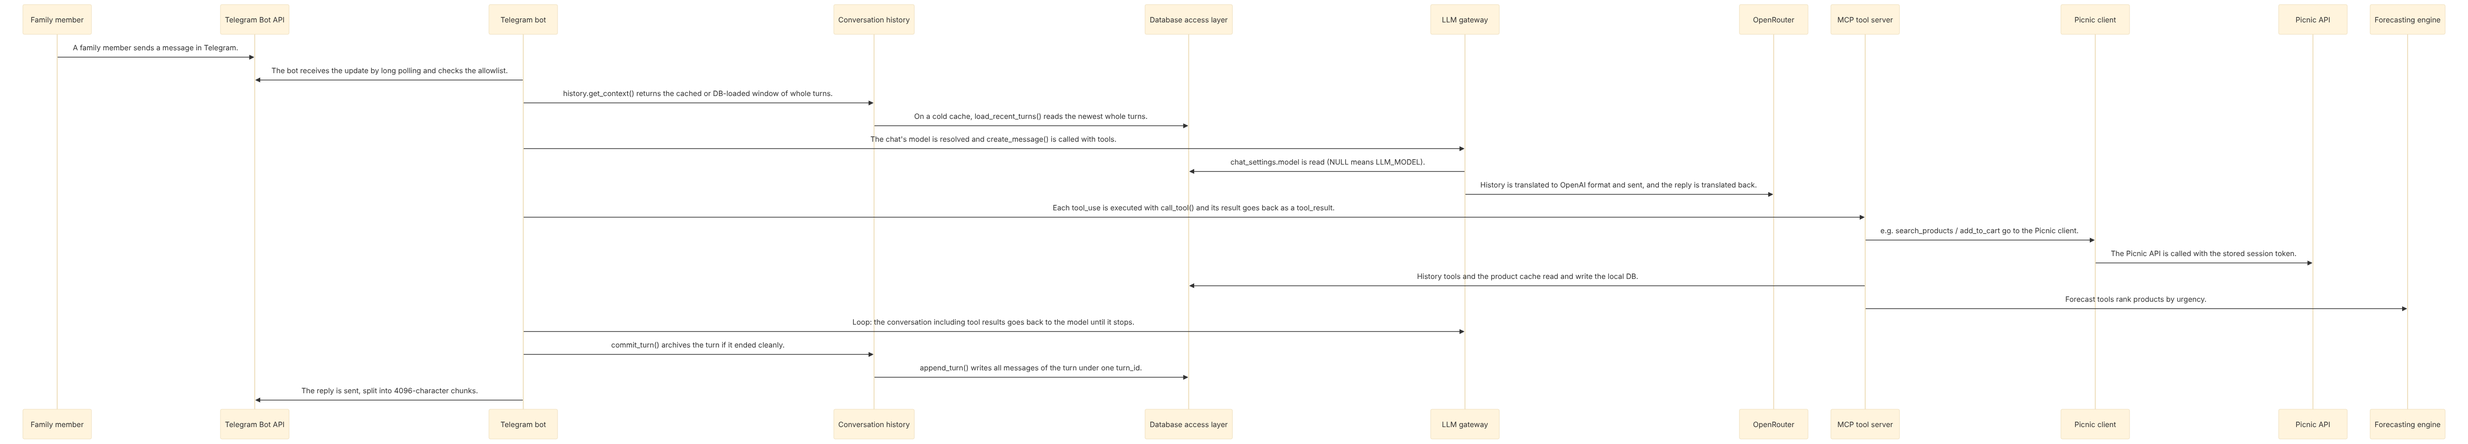
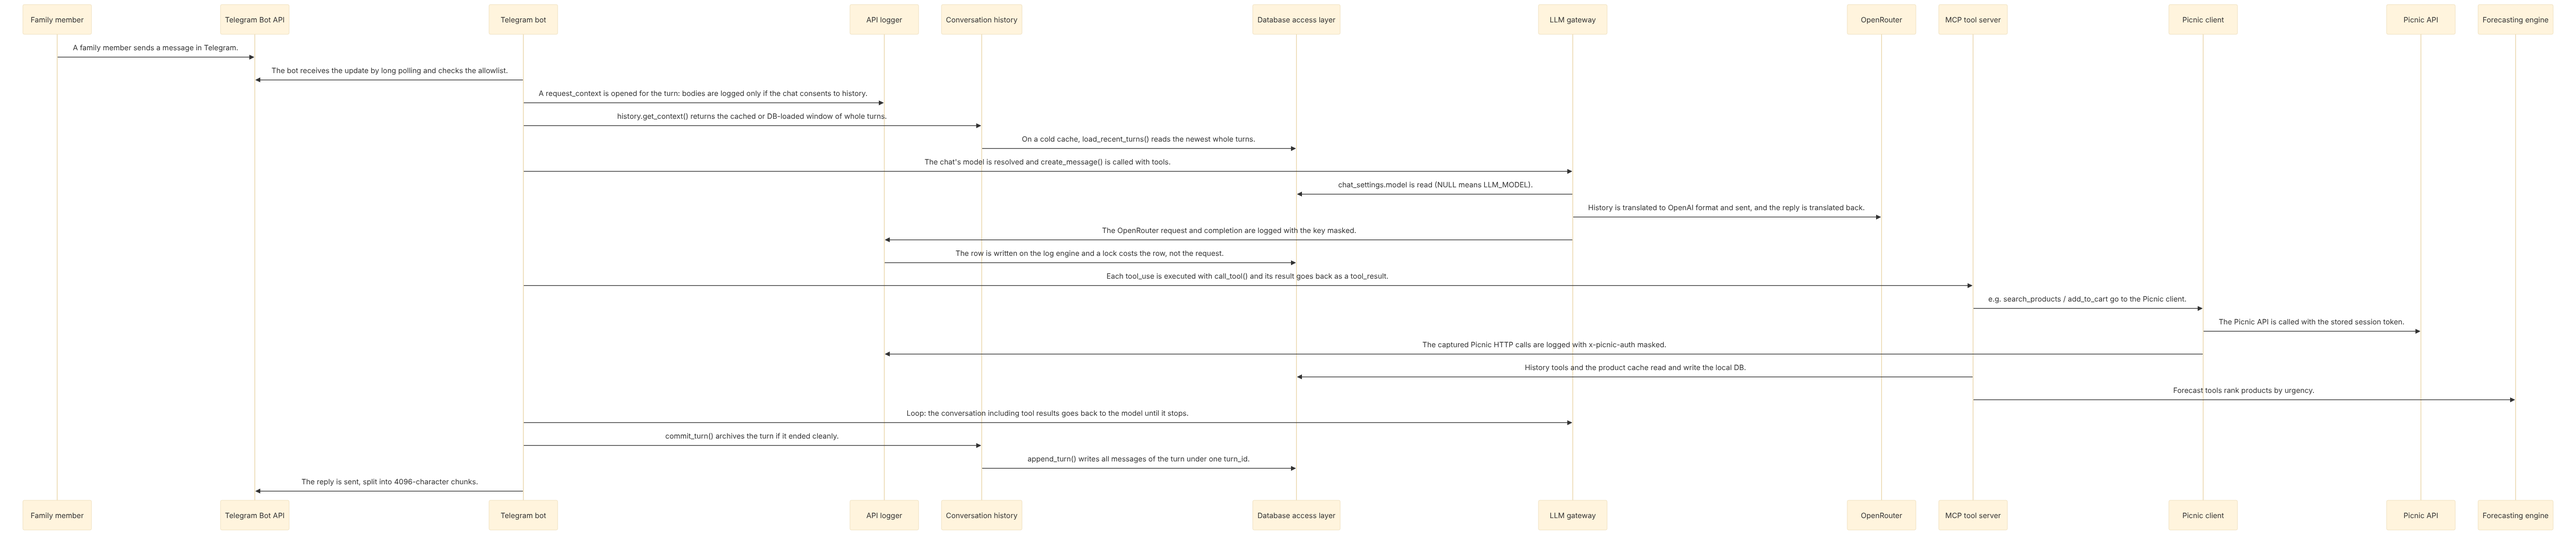
CALM: model the API request log, categories and schema 0008
Main added api_log.py, the api_requests and categories tables, and
scripts/inspect_category.py. The model now has:

- an api-log service with links from the bot (per-turn request_context),
  llm.py and the Picnic client, writing through the short-lock-timeout
  log engine; the import script opens a context and prunes the log
- an api-request-log data asset inside the SQLite database
- three controls: the log follows history consent and deletion
  (PLP-DP-04), credentials are redacted (PLP-DP-05), and logging never
  affects the request (PLP-IN-05)
- category lookups (get_category_ids, get_l3_names, upsert_category) in
  the Picnic client interface, import relationships and import flow
- inspect-category-cli, and schema revision 0008

Diagrams re-rendered with calm docify. `calm validate --strict` passes.

Claude-Session: https://claude.ai/code/session_01BVTZ6kUyvwZhtevnuQEcdz

diff --git a/calm/README.md b/calm/README.md
@@ -6,7 +6,7 @@ flows and controls, validated against the CALM 1.2 schema.
 
 | File | What it is |
 |---|---|
-| `picnic-like-a-pro.architecture.json` | The architecture: 28 nodes, 33 relationships, 4 flows, 12 controls |
+| `picnic-like-a-pro.architecture.json` | The architecture: 31 nodes, 39 relationships, 4 flows, 15 controls |
 | `controls/*.requirement.json` | JSON Schemas for the 5 control kinds; every control's `config` is validated against one |
 | `url-mapping.json` | Maps the controls' published `requirement-url`s to the local files, so validation works offline and before merge |
 | `diagrams/` | PNGs rendered by `calm docify` (overview + one per flow) |
@@ -59,25 +59,28 @@ hops (`metadata.transport: "in-process call"`).
 | `picnic-like-a-pro` | system | `src/picnic_meal_planner/`, `scripts/` | the whole repository, via `composed-of` |
 | `telegram-bot` | service | `bot.py` | handlers, allowlist, the tool-use loop `_run_llm`, startup schema gate |
 | `llm-gateway` | service | `llm.py` | the only module that knows the OpenAI wire format, plus per-chat model choice |
+| `api-log` | service | `api_log.py` | best-effort, replayable log of every Picnic/OpenRouter HTTP call; credentials masked |
 | `conversation-history` | service | `history.py` | all history policy; `bot.py` calls only `get_context` / `commit_turn` |
 | `mcp-tool-server` | service | `mcp_server.py` | the 15 tools; in-process via `call_tool`, or standalone over stdio/SSE/HTTP |
-| `picnic-client` | service | `picnic/client.py`, `picnic/auth.py` | the only code that talks to Picnic; token-first login, 2FA `LoginFlow` |
+| `picnic-client` | service | `picnic/client.py`, `picnic/auth.py` | the only code that talks to Picnic; token-first login, 2FA `LoginFlow`, category lookups |
 | `mock-picnic-api` | service | `picnic/mock_client.py` | swapped in by `PICNIC_MOCK=true` |
 | `forecasting-engine` | service | `forecasting/engine.py` | pure functions, no I/O |
-| `db-access-layer` | service | `db/engine.py`, `db/models.py`, `db/queries.py`, `alembic/` | the only code that touches SQLAlchemy |
+| `db-access-layer` | service | `db/engine.py`, `db/models.py`, `db/queries.py`, `alembic/` | the only code that touches SQLAlchemy; two engines on one file (`get_db`, and `get_log_db` with a 0.2 s lock timeout) |
 | `sqlite-db` | database | the file at `DB_PATH` | shared by every process in the container |
-| `order-history` | data-asset | tables `products`, `orders`, `order_items`, `import_checkpoints` | |
+| `order-history` | data-asset | tables `products`, `categories`, `orders`, `order_items`, `import_checkpoints` | |
 | `conversation-transcripts` | data-asset | table `conversation_messages` | personal data |
+| `api-request-log` | data-asset | table `api_requests` | personal data (prompts, tool results, orders in bodies) |
 | `chat-settings` | data-asset | table `chat_settings` | |
 | `picnic-session-token` | data-asset | table `picnic_auth` | a credential |
 | `import-history-job` | service | `scripts/import_history.py` | |
 | `picnic-login-cli` | service | `scripts/picnic_login.py` | the shell front end to the same `LoginFlow` |
 | `chat-model-cli` | service | `scripts/chat_model.py` | |
 | `preflight-cli` | service | `scripts/preflight.py` | |
+| `inspect-category-cli` | service | `scripts/inspect_category.py` | diagnostic dump of a product's category pages |
 
 `node-type: "container"` is a custom type, which CALM allows. The data assets sit inside `sqlite-db`
 through a `composed-of` relationship (`database-contents`), so the diagram draws the database as a
-box holding its four kinds of data.
+box holding its five kinds of data.
 
 ### Interfaces
 
@@ -105,8 +108,8 @@ protocol list has no SSH). In-process edges have no protocol and have `metadata.
 
 | Flow | Code path |
 |---|---|
-| `chat-turn` | `bot._chat` → `_run_llm` → `history.get_context` → `llm.create_message` ↔ `mcp_server.call_tool` (loop) → `history.commit_turn` |
-| `history-import` | `scripts/import_history.py::import_deliveries` then `backfill_categories` |
+| `chat-turn` | `bot._chat` → `_run_llm` (inside `api_log.request_context`) → `history.get_context` → `llm.create_message` ↔ `mcp_server.call_tool` (loop, every HTTP call logged) → `history.commit_turn` |
+| `history-import` | `scripts/import_history.py`: `import_deliveries`, then `backfill_categories` (`get_category_ids`, `get_l3_names`, `upsert_category`), then `api_log.prune_expired` |
 | `picnic-2fa-login` | `bot.cmd_picnic_login` → `client.start_login` → `auth.LoginFlow.start`; `cmd_picnic_code` → `submit_login_code` → `_install` → `auth.save_token` |
 | `build-and-deploy` | `deploy.yml`: `build-and-push` job, then the `deploy` job over SSH |
 
@@ -123,8 +126,8 @@ must satisfy the schema for its kind in `controls/`:
 | Kind | Controls |
 |---|---|
 | `access-control` | PLP-AC-01 user allowlist · PLP-AC-02 Picnic login authorisation · PLP-AC-03 model allowlist |
-| `data-protection` | PLP-DP-01 storage consent · PLP-DP-02 retention/erasure · PLP-DP-03 session token handling |
-| `integrity` | PLP-IN-01 clean-turn archiving · PLP-IN-02 turn-aware window · PLP-IN-03 schema gate · PLP-IN-04 no unprompted 2FA |
+| `data-protection` | PLP-DP-01 storage consent · PLP-DP-02 retention/erasure · PLP-DP-03 session token handling · PLP-DP-04 API log follows history consent · PLP-DP-05 credential redaction in the API log |
+| `integrity` | PLP-IN-01 clean-turn archiving · PLP-IN-02 turn-aware window · PLP-IN-03 schema gate · PLP-IN-04 no unprompted 2FA · PLP-IN-05 API logging never affects the request |
 | `network-exposure` | PLP-NE-01 no inbound ports |
 | `human-in-the-loop` | PLP-HL-01 confirm cart changes |
 
